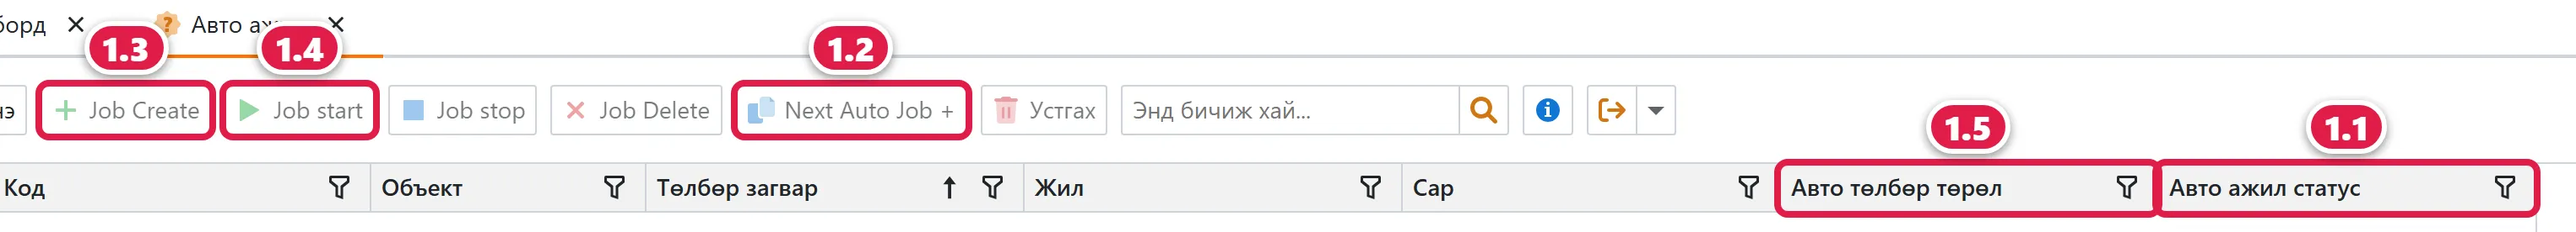
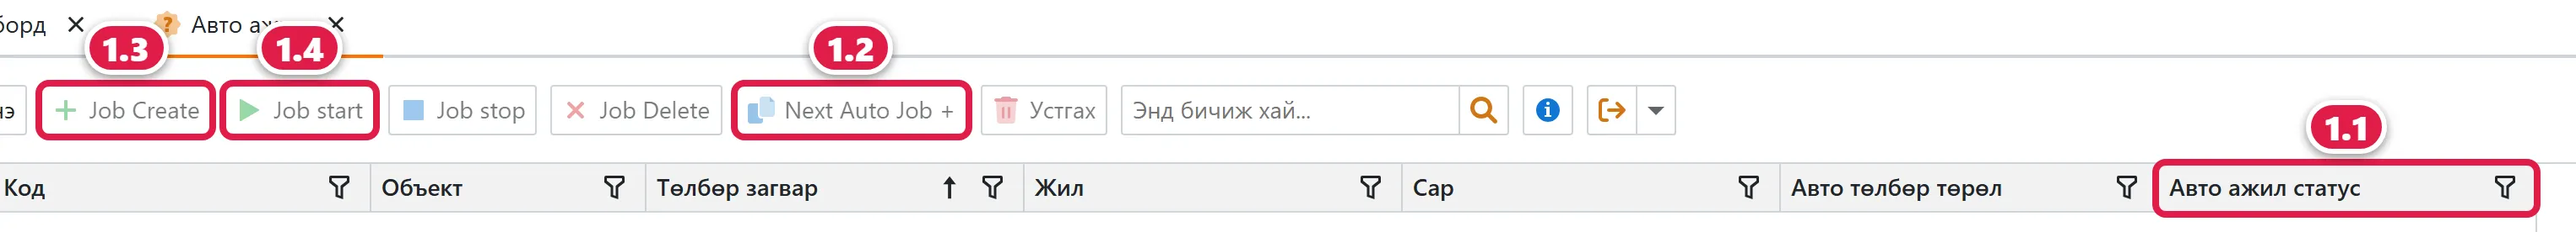
help: Dev_Research ❌-ийн засвар — «харагдана/харагдахгүй» → «идэвхтэй / саарал» (18 газар), 4452433-ийн дүрмүүд (хувь «10», #50в/г/з, #1177/#1179/#1180/#1183), avto «Авто ажил төрөл», Job stop/Stop 2 мөр; help-lint W-gray; тойм хуудас (ehleh) дэд дугааргүй
Нотолгоо: research/help_review_pr8.md (Dev_Research 10-27 12:0x–12:2x), прод 4452433 deploy 12:30 (CEO) — нийтлэх нь deploy батлагдсаны дараа.
Тест 25/25, lint ❌ 0.

Claude-Session: https://claude.ai/code/session_01HhipU9G1kwDtLBKWYTpQfA

Changed region(s): [[0.6848, 0.4348, 0.8404, 0.7246], [0.6848, 0.8986, 0.8404, 0.9565]]

diff --git a/plugins/step-numbers.js b/plugins/step-numbers.js
@@ -10,7 +10,7 @@ const fs = require("fs");
 const META = /^(⚠|Хэзээ|Дэлгэрэнгүй|Карт|Энэ юу|Энэ юунд|Хаана|Багана|Шүүлт|Товчнууд|Анхаар|Түгээмэл асуулт|🔗|Холбоотой|Бусад|Нэр томьёо|Хайлтын)/u;
 const PREFIX = /^\s*(Алхам\s+)?\d+(\.\d+)*\s*[.)—–-]?\s*[—–-]?\s*/u;
 // Нэр томьёо/ойлголтын хуудсанд H2 нь алхам биш, нэр томьёо
-const NO_STEPS = ["oilgolt", "nuur", "hab"];
+const NO_STEPS = ["oilgolt", "nuur", "hab", "ehleh"]; // ehleh: тойм хуудас — өөрийн дүрслэлтэй дугаартай
 
 function typeOf(path) {
   try {

diff --git a/src/css/custom.css b/src/css/custom.css
@@ -336,6 +336,7 @@ html[data-role] .navbar__logo img {
   border-radius: 3px;
   margin: 0 4px 0 12px;
   vertical-align: -1px;
-  border: 2px solid;
+  border-width: 2px;
+  border-style: solid;
 }
 .phase-legend i:first-child { margin-left: 0; }

diff --git a/docs/owner/list/sale.md b/docs/owner/list/sale.md
@@ -89,12 +89,11 @@ keywords:
   - Хуваарилсан төлбөр бүрэн төлөгдвөл «төлсөн», дутуу бол «дутуу» болно.
   - Үлдэгдэл нь 1000₮-өөс бага төлбөрийг «төлсөн» гэж үзэн алгасна.
 - **Сонголт:** олон мөр.
-- **Хэзээ харагдах:** хуваарилагдаагүй үлдэгдэлтэй төлөлт дээр л. Бүрэн хуваарилсан төлөлт дээр харагдахгүй.
+- **Хэзээ идэвхтэй:** хуваарилагдаагүй үлдэгдэлтэй төлөлт дээр л. Бүрэн хуваарилсан төлөлт дээр **саарал**.
 - **Баталгаажуулалт:** «Та сонгосон төлөлтийг хуваарилах уу?»
 - **Анхаар:**
   - Алдангийн дараа бусад төлбөрт **огнооны дарааллаар (хуучнаас нь) хуваарилах баталгаагүй**. Тодорхой сард хуваарилах шаардлагатай бол дараа нь картын «Төлөлтийн хуваарилалт» табаас шалга.
-  - Гэрээгүй төлөлт дээр ажиллахгүй, алдаа гарна.
-  - **Цуцлагдсан төлөлт дээр бүү дар.** Товч харагдаж болох ч цуцалсан мөнгө төлбөрт хуваарилагдана.
+  - Гэрээгүй эсвэл цуцалсан төлөлт дээр дарвал алдаа гарахгүй, **юу ч хийхгүй**. <!-- Sale.cs:1114 (4452433, #50в) -->
 - **Буцаах:** ⚠ тусдаа «буцаах» товч байхгүй. Төлөлтийг цуцалбал хуваарилалт нь арилна (доор).
 
 ### «Цуцлах ...» {#tsutslah}
@@ -108,7 +107,7 @@ keywords:
 - **Буцаах:** ❌ цуцалсан төлөлтийг сэргээх товч байхгүй. Хэрэгтэй бол хуулгаас дахин холбоно.
 
 ### «И-Баримт» {#i-barimt}
-Нэг товч, 3 сонголттой. **Сонголт:** 1 мөр. Е-баримтын төлөв **Гараагүй · Үүссэн · Илгээсэн · Буцаасан · Авто бүртгэл** үед харагдана. Төлөв **Алдаатай** бол харагдахгүй.
+Нэг товч, 3 сонголттой. **Сонголт:** 1 мөр. Е-баримтын төлөв **Гараагүй · Үүссэн · Илгээсэн · Буцаасан · Авто бүртгэл** үед идэвхтэй. Төлөв **Алдаатай** бол **саарал**.
 
 **«Баримт гаргах»**
 - **Юу хийдэг:** төлөлтөд е-баримт үүсгэнэ. **«Ebarimt хэвлэх»** цонх нээгдэнэ. Түүнд дараах талбарыг бөглөөд **«Ebarimt 3.0 гаргах»** дарна:
@@ -130,7 +129,7 @@ keywords:
 **«Буцаах»**
 - **Юу хийдэг:** татварын системд баримтыг **хүчингүй** болгоно. Төлөлтийн төлөв «Буцаасан» болно.
 - **Баталгаажуулалт:** баримтын дугаар, дүн, огноотой асуулт гарна. **«Тийм, хүчингүй болго»** эсвэл **«Болих»** дар.
-- **Буцаахгүй тохиолдол** — шар мэдэгдэл гарч юу ч хийхгүй: баримт үүсээгүй. 🆕 *#1177 шинэчлэлийн дараа (програм шинэчлэгдсэний дараа)* мөн: баримт **аль хэдийн буцаагдсан**, эсвэл амжилттай бүртгэгдээгүй.
+- **Буцаахгүй тохиолдол** — шар мэдэгдэл гарч юу ч хийхгүй: баримт үүсээгүй, баримт **аль хэдийн буцаагдсан**, эсвэл амжилттай бүртгэгдээгүй.
 - **Хэзээ хэрэглэх:** регистр буруу гарсан, эсвэл төлөлтийг цуцлах шаардлагатай үед.
 - **Буцаах:** ❌ хүчингүй болгосон баримт сэргэхгүй. Шинээр «Баримт гаргах» хэрэгтэй.
 
@@ -164,7 +163,7 @@ keywords:
   - задаргаатай төлөлт;
   - хуваах дүн 0, эсвэл нийт дүнтэй тэнцүү/их;
   - одоогийн сувагтай ижил суваг.
-- **⚠ Анхаар:** хуваарилсан төлөлтийг **бүү хуваа**. Систем одоогоор хориглодоггүй ч хуваарилалт төлөлтийн дүнгээс хэтэрнэ. Эхлээд хуваагаад, дараа нь «Хуваарилах...» дар.
+- **⚠ Анхаар:** **хуваарилсан** төлөлтийг хуваах боломжгүй — систем зөвшөөрөхгүй. Эхлээд хуваагаад, дараа нь «Хуваарилах...» дар. <!-- SplitSale BillPayments.Any() (4452433, #50в) -->
 
 ### «Ангилал солих...»
 - **Юу хийдэг:** сонгосон төлөлтүүдийн **Төрлийг** солино: Үндсэн төлөлт · Барьцаа төлөлт · Эхний үлдэгдэл.
@@ -189,8 +188,7 @@ keywords:
 ### «Тайлбар бөглөх (данснаас)...»
 - **Юу хийдэг:** хуулгын дансанд тохирох төлбөрийн загвараас төлөлтийн **Тайлбарыг** автоматаар бөглөнө.
 - **Сонголт:** 1 мөр.
-- **Анхаар:** зөвхөн **хуулгаас үүссэн, гэрээтэй** төлөлт дээр дар. Гараар бүртгэсэн төлөлт дээр **алдаа гарна**. Тохирох загвар олдохгүй бол юу ч өөрчлөхгүй.
-  - 🆕 *#1183 шинэчлэлийн дараа (програм шинэчлэгдсэний дараа):* гараар бүртгэсэн эсвэл гэрээгүй төлөлт дээр товч **идэвхгүй** болж, алдаа гарахгүй.
+- **Анхаар:** зөвхөн **хуулгаас үүссэн, гэрээтэй** төлөлт дээр идэвхтэй. Гараар бүртгэсэн эсвэл гэрээгүй төлөлт дээр **саарал**. Тохирох загвар олдохгүй бол юу ч өөрчлөхгүй.
 
 ### Бусад товч
 - **Сэргээх** (жагсаалтыг дахин ачаална), **Export** (Excel рүү гаргах), багана тохируулах — бүх жагсаалтад ижил.
@@ -226,7 +224,7 @@ keywords:
 ## ⚠ Анхаар
 - **2** «Хуваарилах...»: буцаах товч байхгүй. Буруу хуваарилсан бол төлөлтийг цуцал — хуваарилалт нь арилна.
 - **3** «Цуцлах ...»: хүчинтэй **е-баримттай** төлөлтийг цуцлахгүй. Эхлээд «И-Баримт → Буцаах».
-- **6** «Төлөлт хуваах»: **хуваарилсан** төлөлтийг бүү хуваа.
+- **6** «Төлөлт хуваах»: **хуваарилсан** төлөлтийг хуваах боломжгүй — эхлээд хуваагаад дараа нь хуваарил.
 - **7** «Ангилал солих...»: устсан задаргаа сэргэхгүй.
 
 ## Түгээмэл асуулт
@@ -234,7 +232,7 @@ keywords:
 - **Төлөлт давхар бүртгэгдсэн.** Илүүг нь «Цуцлах ...» товчоор цуцал. Е-баримттай бол эхлээд «И-Баримт → Буцаах».
 - **Е-баримтын регистр буруу гарсан.** «И-Баримт → Буцаах», дараа нь «И-Баримт → Баримт гаргах»-аар зөв регистрээр дахин гарга. «Е-баримт олноор гаргах» буцаасан төлөлтийг дахин гаргахгүй. → [Е-баримт](/owner/e-barimt)
 - **«Цуцлах» дарахад «хүчинтэй е-баримт байна» гэсэн.** Эхлээд баримтаа буцаа.
-- **Айл буруу данс руу төлсөн.** Төлөлт хуваарилагдаагүй бол «Төлөлт хуваах»-аар хэсгийг нь зөв суваг руу шилжүүл. Хуваарилсан бол бүү хуваа (дээрх ⚠).
+- **Айл буруу данс руу төлсөн.** Төлөлт хуваарилагдаагүй бол «Төлөлт хуваах»-аар хэсгийг нь зөв суваг руу шилжүүл. Хуваарилсан төлөлтийг хуваах боломжгүй (дээрх ⚠).
 - **Цуцалсан төлөлт харагдахгүй байна.** Шүүлтийг «Цуцлагдсан» болго.
 - **Жагсаалт хоосон.** Огнооны шүүлтийг шалга (📅 / ✕).
 

diff --git a/docs/owner/list/statement.md b/docs/owner/list/statement.md
@@ -76,21 +76,21 @@ keywords:
 
 ### «ХУРДАН ТӨЛӨХ» {#hurdan-toloh}
 - **Юу хийдэг:** **«Гэрээ сонгох (хурдан)»** цонх нээнэ. Гүйлгээний утгаас эхний үгийг автоматаар хайлтад тавина. Гэрээгээ сонговол **төлөлтийн карт** нээгдэнэ. Дүн, огноо нь гүйлгээнээс бөглөгдсөн байна. Дүнг засах боломжгүй, бүтэн дүнгээр бүртгэнэ. Хадгалбал төлөлт бүртгэгдэнэ.
-- **Сонголт:** 1 мөр. Бүтэн төлөлтгүй гүйлгээ дээр харагдана.
+- **Сонголт:** 1 мөр. Бүтэн төлөлтгүй гүйлгээ дээр идэвхтэй, бусад үед **саарал**.
 - **Анхаар:**
   - Хайлтад тохирох гэрээ гарахгүй бол хайлтын шүүлтийг **×**-ээр арилгаад бүх гэрээнээс хай.
-  - ⚠ **Ягаан** гүйлгээн дээр бүү дар — доорх «⚠ Анхаар»-ыг хар.
+  - **Ягаан** (хэсэгчлэн хуваасан) гүйлгээн дээр **саарал** — үлдэгдлийг **3** «ХУРДАН ХУВААХ»-аар бүртгэ. <!-- #1180, 4452433 -->
   - Төлөлтийн тайлбар «Дансаар төлөлт: …» гэж эхэлнэ.
 - **Буцаах:** ✅ «Төлөлт цуцлах».
 
 ### «Төлөх»
 - **Юу хийдэг:** хуучин арга. Гэрээ сонгох цонхгүйгээр шууд төлөлтийн карт нээнэ. Түрээслэгчийг картан дотроос гараар сонгоно.
-- **Сонголт:** 1 мөр. Бүтэн төлөлтгүй гүйлгээ дээр харагдана.
-- ⚠ **Ягаан** гүйлгээн дээр бүү дар — доорх «⚠ Анхаар»-ыг хар.
+- **Сонголт:** 1 мөр. Бүтэн төлөлтгүй гүйлгээ дээр идэвхтэй, бусад үед **саарал**.
+- **Ягаан** (хэсэгчлэн хуваасан) гүйлгээн дээр **саарал** — үлдэгдлийг **3** «ХУРДАН ХУВААХ»-аар бүртгэ. <!-- #1180, 4452433 -->
 
 ### «ХУРДАН ХУВААХ» {#hurdan-huvaah}
 - **Юу хийдэг:** гүйлгээний **хуваарилагдаагүй үлдэгдлээс** нэг гэрээнд төлөлт бүртгэнэ. **«Гэрээ сонгох (хурдан хуваах)»** цонх нээгдэж, дараа нь хуваах карт гарна. Тайлбар нь «Дансаар хувааж төлөлт: …» гэж эхэлнэ. Дүнг нь засаж болно. Үлдэгдэл дуустал гэрээ бүрээр давтана.
-- **Сонголт:** 1 мөр. Үлдэгдэлтэй, бүрэн бүртгэгдээгүй орлогын гүйлгээ дээр л харагдана.
+- **Сонголт:** 1 мөр. Үлдэгдэлтэй, бүрэн бүртгэгдээгүй орлогын гүйлгээ дээр л идэвхтэй, бусад үед **саарал**.
 - **Анхаар:** хуваасан дүнгүүдийн нийлбэр гүйлгээний дүнгээс хэтэрвэл «Хуваагдаж төлсөн дүнгүүд гүйлгээний дүнгээс хэтрээд байна» гэж гараад хадгалагдахгүй.
 
 ### «Хувааж төлөх»
@@ -109,25 +109,25 @@ keywords:
 - **Юу хийдэг:** сонгосон гүйлгээнүүдийн **утгыг уншиж**, тохирох гэрээг олбол **төлөлтийг автоматаар** бүртгэнэ. Утгаас дараах төрлүүдийг дарааллаар хайна. **Нэг төрөл олдвол** (жишээ нь гэрээний дугаар шиг тоо) **бусад төрлийг туршихгүй**, тэр төрлөөр гэрээ олдохгүй бол алгасна:
   1. Утганд «qpay» гэж байвал QPay-ийн төлбөртэй холбоно.
   2. **Гэрээний дугаар**. «/9» гэх мэт төгсгөлтэй бол барьцааны төлөлт болно.
-  3. **Нэхэмжлэхийн дугаар** — ⚠ одоогоор ажиллахгүй (зөвхөн цуцалсан нэхэмжлэхийг хайдаг). 🆕 *#1179 шинэчлэлийн дараа (програм шинэчлэгдсэний дараа)* **хүчинтэй** нэхэмжлэхийн дугаараар таарна. Цуцалсан нэхэмжлэхийн дугаар таарахгүй.
+  3. **Нэхэмжлэхийн дугаар** — **хүчинтэй** нэхэмжлэхийн дугаараар таарна. Цуцалсан нэхэмжлэхийн дугаар таарахгүй. <!-- #1179, 4452433 -->
   4. **Харилцагчийн регистр**. Харилцагч **нийт** (хаагдсан гэрээг оролцуулаад) ганц гэрээтэй үед л ажиллана.
   5. Талбайн дугаар — зөвхөн тусгай тохиргоотой байгууллагад.
 - **Сонголт:** олон мөр.
 - **Алгасдаг гүйлгээ:**
-  - аль хэдийн төлөлттэй (🆕 *#1180-ийн дараа* хэсэгчлэн хуваасан төлөлттэйг оруулаад);
+  - аль хэдийн төлөлттэй (хэсэгчлэн хуваасан төлөлттэйг оруулаад);
   - гэрээ нь хаагдсан;
   - гэрээ гүйлгээний огнооноос хойш эхэлсэн;
   - утгаас юу ч таарахгүй.
 
   Эдгээрийг «ХУРДАН ТӨЛӨХ»-өөр гараар бүртгэ.
 - **Анхаар:**
-  - ⚠ **Ягаан** гүйлгээн дээр бүү дар — доорх «⚠ Анхаар»-ыг хар.
+  - **Ягаан** (хэсэгчлэн хуваасан) гүйлгээг **алгасна**. <!-- #1180, 4452433 -->
   - Автомат төлөлтийн тайлбар «Дансаар авто төлөлт: …», барьцаа бол «Дансаар авто барьцаа төлөлт: …» гэж эхэлнэ.
 - **Буцаах:** ✅ «Төлөлт цуцлах».
 
 ### «Төлөлт цуцлах» {#toloh-tsutslah}
 - **Юу хийдэг:** гүйлгээнээс бүртгэсэн **бүх төлөлтийг** цуцална. Хувааж бүртгэсэн бол бүх хэсгийг нь цуцална. Төлөлтүүдийн хуваарилалт арилж, гүйлгээ дахин «бүртгээгүй» болно.
-- **Сонголт:** 1 мөр. Төлөлттэй гүйлгээ дээр л харагдана.
+- **Сонголт:** 1 мөр. Төлөлт бүртгэгдсэн гүйлгээ дээр идэвхтэй (цуцалсан төлөлттэй гүйлгээ ч орно), бусад үед **саарал**.
 - **Баталгаажуулалт:** «Данснаас төлсөн төлөлтийг цуцлах гэж байна. Итгэлтэй байна уу?»
 - **⚠ Хүчинтэй е-баримттай төлөлт байвал юу ч цуцлахгүй.** «Төлөлт <дугаар>: …эхлээд «И-Баримт → Буцаах»…» гэж гарна. Тиймээс **Тооцоо → Төлөлт** жагсаалтаас баримтаа эхлээд буцаа.
 - **Буцаах:** ✅ дахин «ХУРДАН ТӨЛӨХ»-өөр бүртгэнэ.
@@ -177,9 +177,8 @@ keywords:
 - Жагсаалт хоосон харагдвал → [Жагсаалт хоосон](/owner/jagsaalt-hooson-shuult)
 
 ## ⚠ Анхаар
-- **1**, **2**, **6**: **ягаан** (хэсэгчлэн хуваасан) гүйлгээн дээр бүү дар — бүтэн дүнгээр **давхар төлөлт** үүснэ. Үлдэгдлийг **3** «ХУРДАН ХУВААХ»-аар бүртгэ.
+- **1**, **2**: **ягаан** (хэсэгчлэн хуваасан) гүйлгээн дээр **саарал**. Үлдэгдлийг **3** «ХУРДАН ХУВААХ»-аар бүртгэ.
 - **5** «Багцаар төлөх»: одоогоор төлөлт үүсгэдэггүй — бүү ашигла.
-- **6** «Шалгах»: «Нэхэмжлэхийн дугаар»-аар хайх нь одоогоор ажиллахгүй.
 - **7** «Төлөлт цуцлах»: хүчинтэй **е-баримттай** төлөлт байвал юу ч цуцлахгүй. Эхлээд баримтаа буцаа.
 
 ## Түгээмэл асуулт

diff --git a/docs/owner/list/invoicebill.md b/docs/owner/list/invoicebill.md
@@ -127,13 +127,13 @@ keywords:
 
 ### «Алданги цуцлах» {#aldangi-tsutslah}
 - **Юу хийдэг:** сонгосон нэхэмжлэхийн **алдангийг 0** болгоно. Дараагийн SMS илгээлтэд дахин бодогдохгүй.
-- **Сонголт:** олон мөр. Алданги нь идэвхтэй (цуцлаагүй, дүнтэй) нэхэмжлэх дээр л харагдана.
+- **Сонголт:** олон мөр. Алданги нь идэвхтэй (цуцлаагүй, дүнтэй) нэхэмжлэх дээр л идэвхтэй, бусад үед **саарал**.
 - **Баталгаажуулалт:** хэдэн нэхэмжлэх, нийт хэдэн ₮ алданги цуцлагдахыг урьдчилан харуулна. Олон мөр сонговол зөвхөн тоог харуулна.
 - **Буцаах:** ✅ «Алданги сэргээх».
 
 ### «Алданги сэргээх»
 - **Юу хийдэг:** цуцалсан алдангийг сэргээж, **тэр дор нь дахин бодно**.
-- **Сонголт:** олон мөр. Алданги нь цуцлагдсан нэхэмжлэх дээр л харагдана.
+- **Сонголт:** олон мөр. Алданги нь цуцлагдсан нэхэмжлэх дээр л идэвхтэй, бусад үед **саарал**.
 
 ![Нэхэмжлэх жагсаалтын товч 9–11: хэвлэх, цуцлах](/img/owner/list/invoicebill-3.webp)
 
@@ -149,10 +149,10 @@ keywords:
 
 ### «Цуцлах» {#tsutslah}
 - **Юу хийдэг:** сонгосон нэхэмжлэхүүдийг цуцална. **Төлбөр** (тооцоо) өөрөө цуцлагдахгүй.
-- **Сонголт:** олон мөр. Идэвхтэй нэхэмжлэх дээр л харагдана.
+- **Сонголт:** олон мөр. Идэвхтэй нэхэмжлэх дээр л идэвхтэй, бусад үед **саарал**.
 - **Баталгаажуулалт:** «Та сонгосон нэхэмжлэхүүдийг цуцлах уу?»
 - **Анхаар:**
-  - ⚠ Цуцалсны дараа холбоотой төлбөр **«Төлөөгүй» болно**, төлсөн байсан ч. Засахын тулд шүүлтийг «Цуцалсан» болгоод тэр нэхэмжлэхээ сонгож **«Төлөв шалгах»** дар. Гэрээний төлбөрүүд үлдэгдлээр дахин бодогдоно.
+  - Цуцлахад төлсөн (эсвэл дутуу төлсөн) төлбөрийн төлөв **хэвээр** үлдэнэ. <!-- 4452433 #50г: зөвхөн !IsPaymentStatus үед буцна (Dev_Research 10-27) -->
   - Шинэ нэхэмжлэхийг **Төлбөр** жагсаалтаас үүсгэнэ.
 - **Буцаах:** ❌ цуцалсан нэхэмжлэхийг сэргээх товч байхгүй. Шинээр үүсгэнэ.
 
@@ -185,13 +185,11 @@ keywords:
 - Жагсаалт хоосон харагдвал → [Жагсаалт хоосон](/owner/jagsaalt-hooson-shuult)
 
 ## ⚠ Анхаар
-- **11** «Цуцлах»: цуцалсны дараа холбоотой төлбөр «**Төлөөгүй**» болно, төлсөн байсан ч.
 - **1** «SMS илгээх»: илгээсэн SMS буцахгүй. Эхлээд **2** «Өөр дугаар руу илгээх»-ээр өөрийн утсанд туршиж болно.
 
 ## Түгээмэл асуулт
 - **Төлсөн айлд «төлөөгүй» SMS очсон.** Илгээхийн өмнө төлвийг шалгадаг ч төлөлт хуваарилагдаагүй бол «төлөөгүй» хэвээр байна. **Тооцоо → Төлөлт**-өөс төлөлтөө «Хуваарилах...».
 - **SMS «алгассан» гэж гарсан.** Шалтгаан нь мессежийн хаалтанд бичигдэнэ: суурин утас, өнөөдөр илгээсэн, төлөгдсөн, дүн бага.
-- **Нэхэмжлэх цуцалсны дараа төлсөн айл «төлөөгүй» харагдаж байна.** «Цуцалсан» шүүлтээр орж тэр нэхэмжлэхийг сонгоод «Төлөв шалгах».
 - **Нэг айлд өөр дугаар руу явуулах хэрэгтэй.** «Өөр дугаар руу илгээх».
 - **Нэхэмжлэхийн дүн буруу.** **Төлбөр** жагсаалтаас «Төлбөр шинэчлэх» дар, дараа нь энд «Нэхэмжлэх шинэчлэх» дар.
 - **Харилцагч алдангиас чөлөөлөх хүсэлт гаргасан.** «Алданги цуцлах».

diff --git a/docs/owner/list/saleebarimt.md b/docs/owner/list/saleebarimt.md
@@ -54,7 +54,7 @@ keywords:
   - **Дүн**, **НӨАТ дүн**;
   - **Баримт төрөл**: **Сугалаатай (Иргэн)** · **Сугалаагүй (Байгууллага, Иргэн)**;
   - **Статус**: Үүссэн · Илгээсэн · Буцаасан · Авто бүртгэл · Мэссэж явуулсан · Алдаатай;
-  - **Буцаасан** (чагт) — ⚠ **найдваргүй**, одоогоор бараг бүх мөрөнд тэмдэглэгдсэн харагдана. Буцаасан эсэхийг **Статус**-аас хар;
+  - **Буцаасан** (чагт) — баримт буцаагдсан эсэх; <!-- 4452433 #50з засварласан (Dev_Research 10-27) -->
   - **Огноо** — е-баримтын огноо.
 - **Дүн** баганын доор нийлбэр, **ДДТД** баганын доор баримтын тоо гарна.
 
@@ -87,8 +87,8 @@ keywords:
 
 **«Буцаах»**
 - **Юу хийдэг:** татварын системд баримтыг **хүчингүй** болгоно. Статус «Буцаасан» болно. Төлөлтөд өөр хүчинтэй баримт үлдээгүй бол төлөлтийн төлөв мөн «Буцаасан» болно.
-- **Баталгаажуулалт:** 🆕 *#1177 шинэчлэлийн дараа (програм шинэчлэгдсэний дараа).* Баримтын дугаар, дүн, огноотой асуулт гарна. **«Тийм, хүчингүй болго»** эсвэл **«Болих»** дар. «Болих» дарвал «Буцаалт цуцлагдлаа — баримт хэвээр.» гэж гарна.
-- **Буцаахгүй тохиолдол** (🆕 *#1177-ийн дараа*) — шар мэдэгдэл гарч юу ч хийхгүй:
+- **Баталгаажуулалт:** Баримтын дугаар, дүн, огноотой асуулт гарна. **«Тийм, хүчингүй болго»** эсвэл **«Болих»** дар. «Болих» дарвал «Буцаалт цуцлагдлаа — баримт хэвээр.» гэж гарна.
+- **Буцаахгүй тохиолдол** — шар мэдэгдэл гарч юу ч хийхгүй:
   - баримт үүсээгүй;
   - баримт **аль хэдийн буцаагдсан**;
   - баримт амжилттай бүртгэгдээгүй («…татварт буцаах зүйлгүй»).
@@ -102,7 +102,7 @@ keywords:
 
 ### «Мэссэж илгээх» {#sms}
 - **Юу хийдэг:** харилцагчид **сугалааны код ба дүнг** SMS-ээр илгээнэ. Цонхонд **Мэссэж хүлээн авагч** (гэрээний утсаар бөглөгдсөн) ба **Мэдээ** (бэлэн текст, 150 тэмдэгтэд багтаа) гарна. Мессеж **латинаар** явна: «<байгууллага>: Tulburuu tsagtaa tulsun tand bayarlalaa. Ebarimt code: …, dun: …».
-- **Сонголт:** 1 мөр. **Сугалаатай (Иргэн)** баримт дээр, өмнө нь мессеж явуулаагүй үед л харагдана.
+- **Сонголт:** 1 мөр. **Сугалаатай (Иргэн)** баримт дээр, өмнө нь мессеж явуулаагүй үед л идэвхтэй, бусад үед **саарал**.
 - **Анхаар:**
   - **Буцаасан** баримт дээр бүү дар. Товч харагдаж болох ч хүчингүй баримтын код илгээгдэнэ.
   - Илгээсний дараа Статус «Мэссэж явуулсан» болж, өмнөх төлөв (Илгээсэн г.м.) харагдахаа болино.

diff --git a/docs/owner/list/bill.md b/docs/owner/list/bill.md
@@ -92,7 +92,7 @@ keywords:
 
 ### «Цуцлах»
 - **Юу хийдэг:** сонгосон төлбөрүүдийг цуцална. Төлбөрөөс үүссэн **нэхэмжлэх ба хөнгөлөлт мөн цуцлагдана**.
-- **Сонголт:** олон мөр. Зөвхөн цуцлаагүй (идэвхтэй) төлбөр дээр харагдана.
+- **Сонголт:** олон мөр. Зөвхөн цуцлаагүй (идэвхтэй) төлбөр дээр идэвхтэй, бусад үед **саарал**.
 - **Баталгаажуулалт:** «Төлбөр цуцлахад үүссэн нэхэмжлэх болон хөнгөлөлтүүд цуцлагдана. Та итгэлтэй байна уу?»
 - **Төлөлт холбогдсон бол:** төлөлт **устахгүй**. Зөвхөн энэ төлбөрт хуваарилсан холбоос арилж, төлөлт **хуваарилагдаагүй** үлдэнэ. Гэрээний «Хуваарилах» товчоор дахин хуваарил.
 - **Анхаар:**
@@ -106,7 +106,7 @@ keywords:
 
 ### «Алданги+»
 - **Юу хийдэг:** сонгосон төлбөрт тусдаа **алдангийн төлбөр** үүсгэнэ. Цонхонд нийт дүн ба хоног оруулна.
-- **Сонголт:** 1 мөр. Хуваарьтай, өөрөө алданги биш төлбөр дээр харагдана.
+- **Сонголт:** 1 мөр. Хуваарьтай, өөрөө алданги биш төлбөр дээр идэвхтэй, бусад үед **саарал**.
 - **Анхаар:**
   - Гэрээнд **алдангийн үйлчилгээ** идэвхтэй байх ёстой. Үгүй бол «Алдангийн үйлчилгээг гэрээ дээр идэвхжүүлнэ үү» гэж гарна.
   - Хоногийг 0 гэж бүү оруул, алдаа гарна.
@@ -114,7 +114,7 @@ keywords:
 
 ### «Алданги цуцлах»
 - **Юу хийдэг:** энэ төлбөрийн алдангийг 0 болгоно. Нэхэмжлэх байвал түүн дээр ч мөн адил. Дараагийн SMS илгээлтэд дахин бодогдохгүй.
-- **Сонголт:** 1 мөр. Алдангитай (дүн > 0), цуцлаагүй төлбөр дээр л харагдана.
+- **Сонголт:** 1 мөр. Алдангитай (дүн > 0), цуцлаагүй төлбөр дээр л идэвхтэй, бусад үед **саарал**.
 - **Баталгаажуулалт:** сонгосон төлбөрийн мэдээлэлтэй асуулт гарна.
 - **Буцаах:** ✅ «Алданги сэргээх».
 
@@ -122,7 +122,7 @@ keywords:
 - **Юу хийдэг:** цуцалсан алдангийг сэргээнэ.
   - Нэхэмжлэхтэй төлбөр: алдангийг тэр дор нь дахин бодно.
   - Нэхэмжлэхгүй төлбөр: зөвхөн «цуцалсан» тэмдгийг авна. Дүнг сэргээхийн тулд «Төлбөр шинэчлэх» дар. <!-- ❔ дараагийн бодолтоор сэргэх эсэхийг UI-аар батлаагүй -->
-- **Сонголт:** 1 мөр. Алданги нь цуцлагдсан төлбөр дээр л харагдана.
+- **Сонголт:** 1 мөр. Алданги нь цуцлагдсан төлбөр дээр л идэвхтэй, бусад үед **саарал**.
 
 ### «Алданги ...»
 - **Юу хийдэг:** алдангийн задаргааг (өдөр, дүн, нийт) тусдаа цонхонд **харуулна**. Юу ч өөрчлөхгүй.

diff --git a/docs/owner/avto-tootsoo-garaagui.md b/docs/owner/avto-tootsoo-garaagui.md
@@ -37,18 +37,19 @@ keywords:
 
 **Автоматжуулалт → Авто ажил** цэсийг нээгээд:
 
-![Авто ажил: статус, Next Auto Job +, Job Create, Job start, төрөл](/img/owner/avto-ajil.webp)
+![Авто ажил: статус, Next Auto Job +, Job Create, Job start](/img/owner/avto-ajil.webp)
 
 *Зураг 1. Авто ажил жагсаалт.* Улаан дугаар = доорх алхмын дугаар. Дарвал томорно. Англи товчны утга → [Апп дээрх англи үгс](/owner/glossary#angli-ug)
 
 <!-- Зургийг scripts/shots/shoot.cjs автоматаар авсан (прод, туршилтын owner Рентхаб, PII blur). Дугаар = shots.json «n» = алхмын дугаар. Гараар засахгүй.
+     Алхам 5 «Авто ажил төрөл» = CreateOrder (AutoJob.cs:196, VisibleInListView false) — жагсаалтад баганагүй тул зураг дээр тэмдэггүй (Dev_Research 10-27).
      Job Create/Job start ялгаа: AutoJob.cs :410-415 (CronJobData хоосон үед серверт бүртгэнэ), :418-427 (зогссоныг эхлүүлнэ); autojob.md «Шинэ ажил «Эхлүүлэх» статустай үүснэ, Job Create → «Ажиллаж байна»». -->
 
 1. Тухайн объектын **тухайн сарын** мөр байгаа эсэх, **Авто ажил статус** нь «**Ажиллаж байна**» эсэхийг хар.
 2. Ажил алга бол өмнөх сарын ажлыг сонгоод «**Next Auto Job +**» дар — дараа сарын ижил ажил **нэмэгдэнэ** (статус «Эхлүүлэх»).
 3. Шинэ ажил дээр «**Job Create**» дар — ажлыг серверт **анх удаа бүртгэж** ажиллуулна (статус «Ажиллаж байна» болно).
 4. Статус «**Зогссон**» бол л «**Job start**» дар — өмнө бүртгэгдсэн ажлыг **дахин асаана**. Шинэ ажилд «Job start» юу ч хийхгүй.
-5. **Авто төлбөр төрөл** зөв эсэхийг шалга: «Төл, Нэх үүсгэх» уу, илгээх төрөл үү.
+5. Мөрийг нээж **Авто ажил төрөл** зөв эсэхийг шалга: «Төл, Нэх үүсгэх» уу, илгээх төрөл үү. (Энэ талбар жагсаалтад харагдахгүй, зөвхөн нээж харна.)
 
 → [Авто ажил](/owner/list/AutoJob_ListView)
 
@@ -74,7 +75,7 @@ keywords:
 - «**Job Delete**» нь ажлыг серверээс устгана (жагсаалтын мөр үлдэнэ) — дахин ажиллуулахад «Job Create» хэрэгтэй.
 
 ## Түгээмэл асуулт
-- **Авто ажил «Ажиллаж байна», гэхдээ нэг айлд тооцоо гараагүй.** Тэр гэрээ «Автомат ажил»-д орсон эсэх (алхам 2), хуваарь (3), үйлчилгээ (4), заалт (5)-ыг шалга.
+- **Авто ажил «Ажиллаж байна», гэхдээ нэг айлд тооцоо гараагүй.** Тэр гэрээ «Автомат ажил»-д орсон эсэх (хэсэг 2), хуваарь (3), үйлчилгээ (4), заалт (5)-ыг шалга.
 - **Бүх айлд тооцоо гараагүй.** Авто ажил тухайн сард байхгүй эсвэл «Зогссон» байна (1).
 
 ## 🔗 Холбоотой

diff --git a/docs/owner/huulga-tolbor.md b/docs/owner/huulga-tolbor.md
@@ -107,7 +107,7 @@ keywords:
 - Буруу гэрээнд бүртгэсэн бол хуулга дээрээс **Төлөлт цуцлах**-аар цуцлаад дахин бүртгэ.
 - **Е-баримт гарсан төлөлтийг цуцлахаасаа өмнө е-баримтаа буцаа.** Үгүй бол татварын систем дэх баримт хүчинтэй хэвээр үлдэнэ.
 - Нэг гүйлгээг хоёр өөр гэрээнд бүтэн дүнгээр бүү бүртгэ. Хуваах бол **ХУРДАН ХУВААХ** ашигла.
-- **Цайвар ягаан** (хэсэгчлэн хуваасан) гүйлгээн дээр **ХУРДАН ТӨЛӨХ**, **Төлөх**, **Шалгах**-ыг бүү дар. Бүтэн дүнгээр давхар төлөлт үүснэ. Үлдэгдлийг **ХУРДАН ХУВААХ**-аар бүртгэ. 🆕 *#1180 шинэчлэлийн дараа (програм шинэчлэгдсэний дараа)* ягаан мөр дээр **ХУРДАН ТӨЛӨХ**, **Төлөх** идэвхгүй (саарал) болж, **Шалгах** тэр мөрийг алгасна.
+- **Цайвар ягаан** (хэсэгчлэн хуваасан) гүйлгээн дээр **ХУРДАН ТӨЛӨХ**, **Төлөх** саарал болно, **Шалгах** тэр мөрийг алгасна. Үлдэгдлийг **ХУРДАН ХУВААХ**-аар бүртгэ. <!-- #1180, 4452433 (Dev_Research 10-27) -->
 
 ## Түгээмэл асуулт
 **Харилцагч төлсөн гэж байгаа ч нэхэмжлэх «Төлөөгүй» хэвээр байна.**

diff --git a/docs/owner/glossary.md b/docs/owner/glossary.md
@@ -162,7 +162,8 @@ Spacehub-д шилжихээс өмнөх өр эсвэл илүү төлөлт.
 - **Page Size** — нэг хуудсанд харагдах мөрийн тоо (20, 50 …).
 - **Job Create** — авто ажлыг серверт бүртгэх (эхлүүлэх). → **Авто ажил** жагсаалт
 - **Job start** / **Job Start** — зогссон авто ажлыг дахин эхлүүлэх.
-- **Job stop** / **Job Stop** — авто ажлыг зогсоох. Тухайн сарын авто тооцоо, нэхэмжлэх, SMS явахгүй болно.
+- **Job stop** (**Авто ажил** жагсаалтад) — авто ажлыг зогсоох. Тухайн сарын авто тооцоо, нэхэмжлэх, SMS явахгүй болно.
+- **Job Stop** (**Авто eBarimt** жагсаалтад) — е-баримт автоматаар гарахаа болино. <!-- EbarimtRecord.cs:319 (Dev_Research 10-27) -->
 - **Job Delete** — авто ажлыг серверээс устгах. Жагсаалтын мөр үлдэнэ.
 - **Next Auto Job +** — дараа сарын ижил тохиргоотой авто ажил нэмэх.
 - **eBarimt** — Е-баримт (НӨАТ-ын баримт). «Авто eBarimt» = е-баримтыг автоматаар гаргах ажил.

diff --git a/docs/owner/list/contractpaymentchart.md b/docs/owner/list/contractpaymentchart.md
@@ -71,7 +71,7 @@ keywords:
 *Зураг 1. Төлбөрийн хуваарь жагсаалтын товч 1–4: тоолуур, төлбөр.* Улаан дугаар = доорх товчны дугаар. Дарвал томорно.
 
 ### «Тоолуур [» · «Тоолуур +» · «Тоолуур ]» {#tooluur}
-Тоолуурын заалт оруулах цонх нээнэ. Ашиглалттай (тоолууртай) гэрээн дээр л харагдана.
+Тоолуурын заалт оруулах цонх нээнэ. Ашиглалттай (тоолууртай) гэрээн дээр л идэвхтэй, бусад үед **саарал**.
 - **«Тоолуур [»** — **эхлэл** заалт. Тоолуурыг анх ашиглаж эхлэх сард.
 - **«Тоолуур +»** — **сарын** заалт. Сар бүр.
 - **«Тоолуур ]»** — **хаалтын** заалт. Гэрээ хаах сард.
